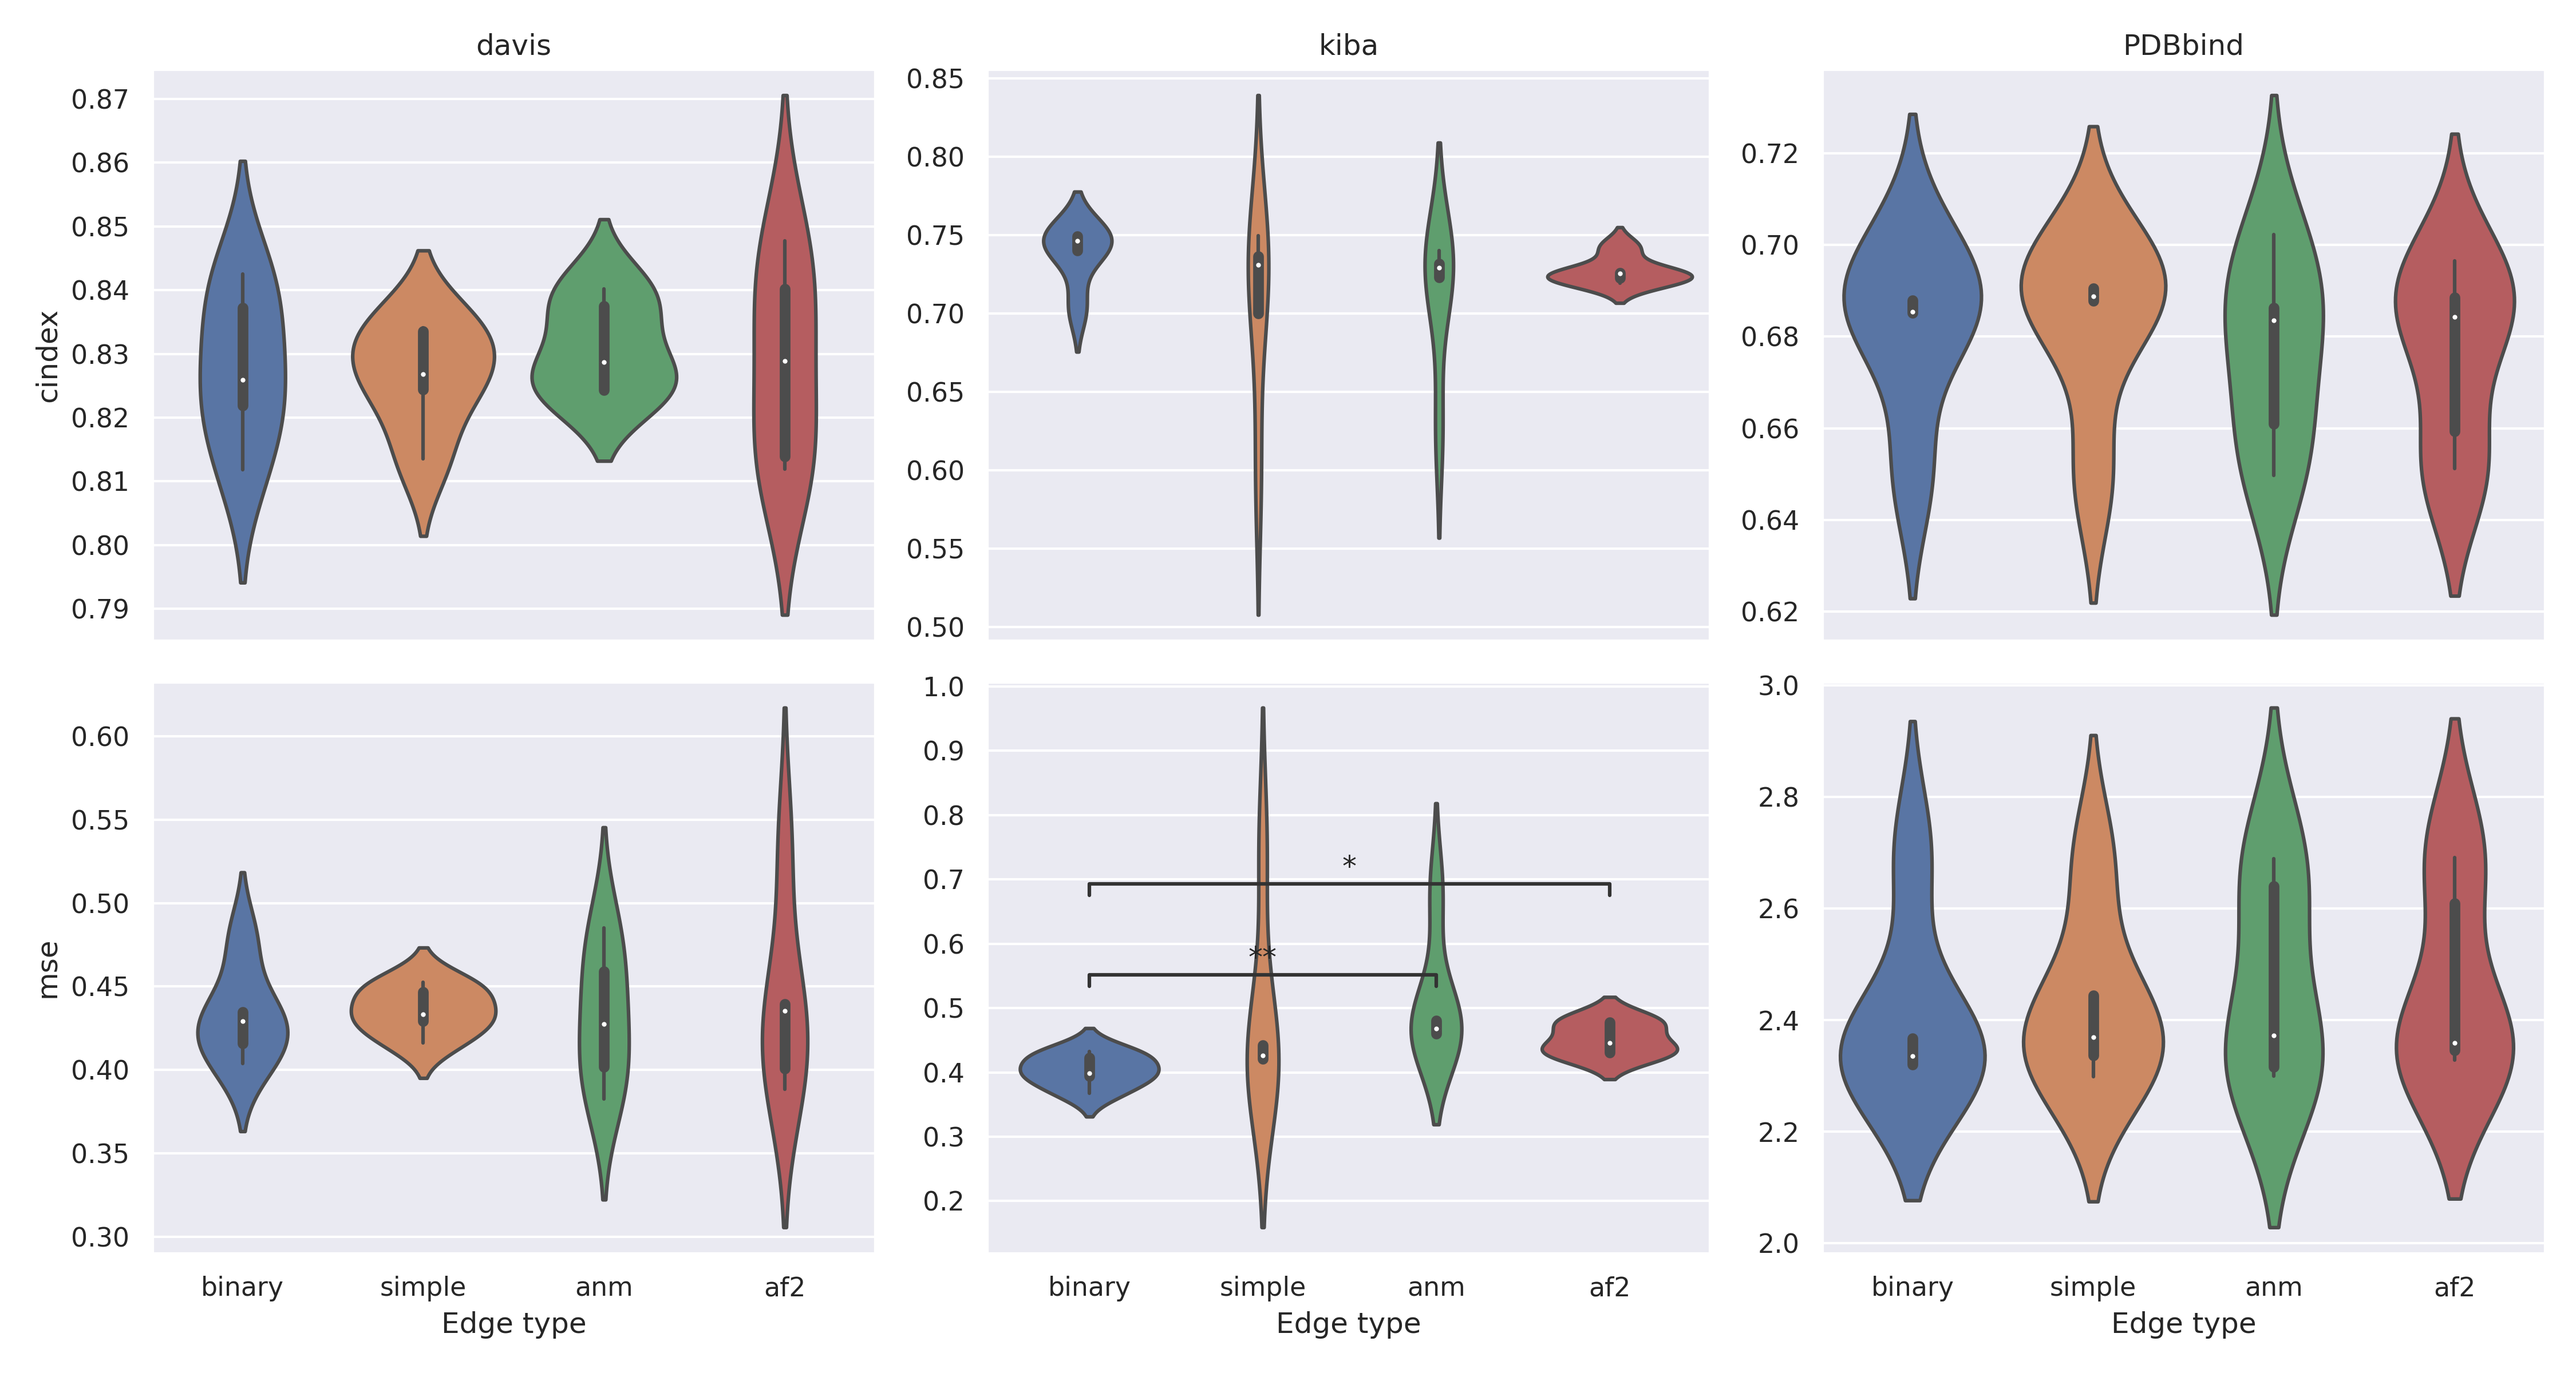
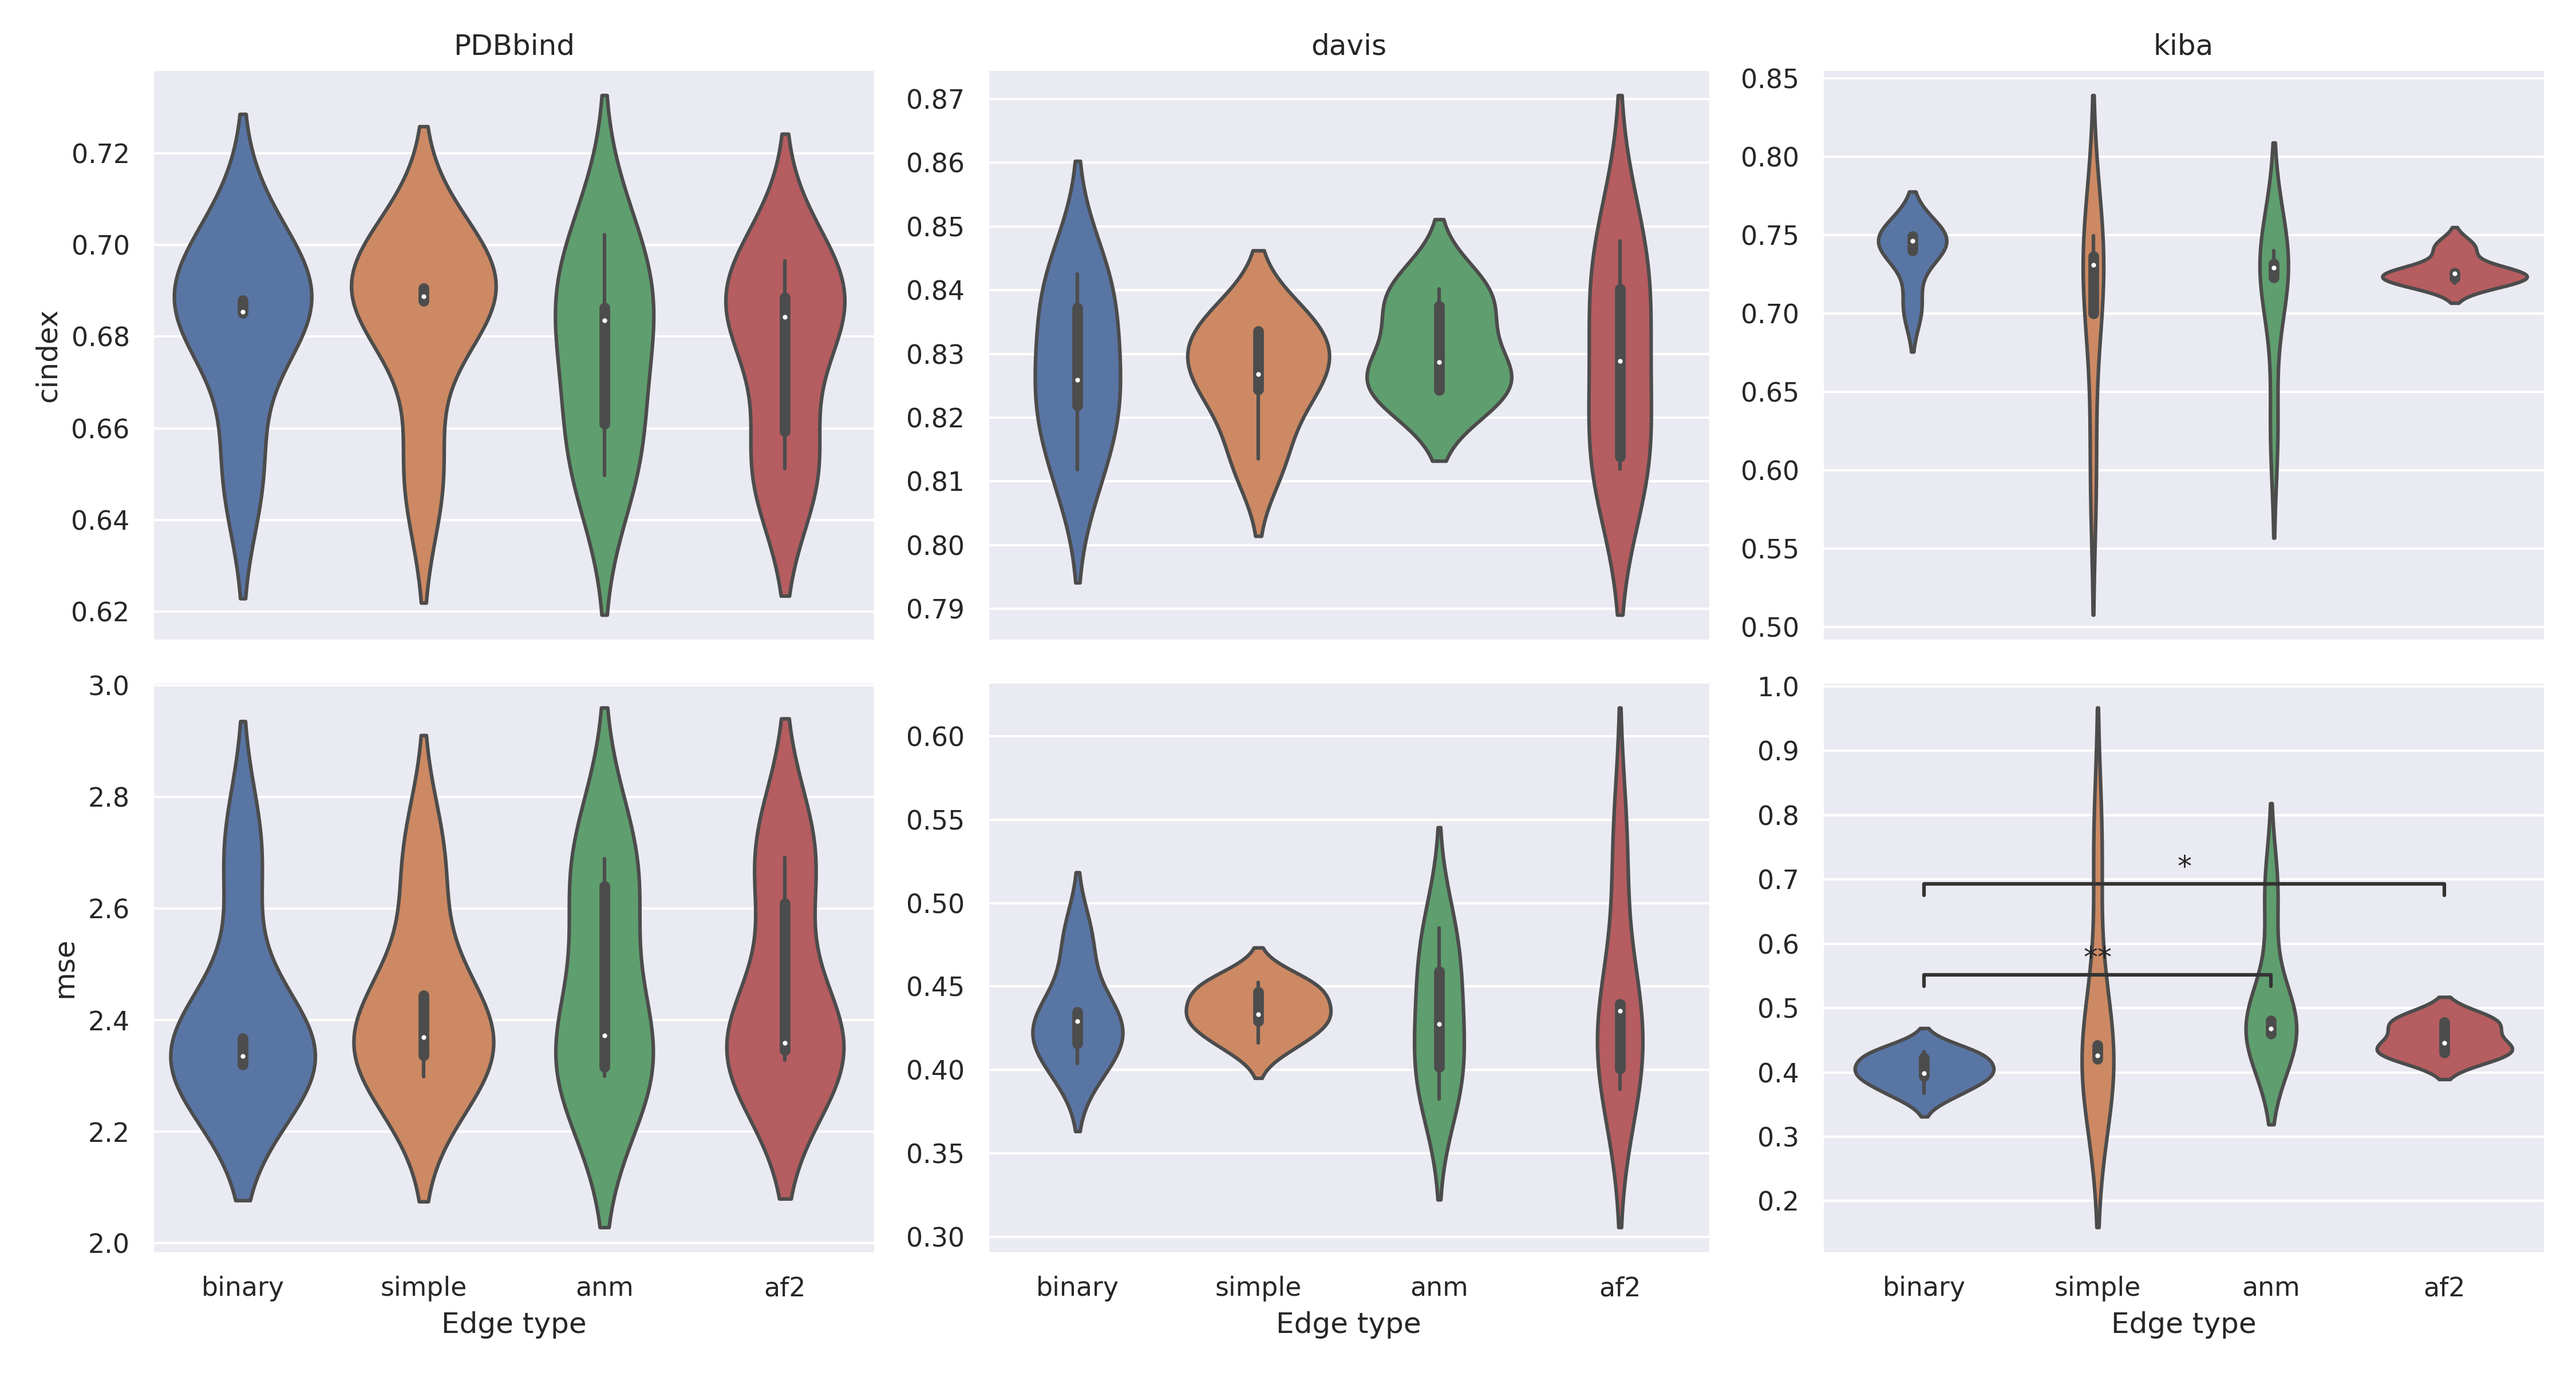
fix(fig_combined): consistent order + pearson

diff --git a/src/data_analysis/figures.py b/src/data_analysis/figures.py
@@ -288,9 +288,9 @@ def fig6_protein_appearance(datasets=['kiba', 'PDBbind'], show=False):
     
     if show: plt.show()
     
-def fig_combined(df, datasets=['davis', 'kiba', 'PDBbind'], metrics=['cindex', 'mse'], 
-                  fig_callable=fig4_pro_feat_violin, 
-                  verbose=False, show=False, **kwargs):    
+def fig_combined(df, datasets=['PDBbind','davis', 'kiba'], metrics=['cindex', 'mse'], 
+                  fig_callable=fig4_pro_feat_violin,
+                  show=False, **kwargs):    
     # Create subplots with datasets as columns and cols as rows
     fig, axes = plt.subplots(len(metrics), len(datasets), 
                              figsize=(5*len(datasets), 4*len(metrics)))
@@ -300,13 +300,18 @@ def fig_combined(df, datasets=['davis', 'kiba', 'PDBbind'], metrics=['cindex', '
             ax = axes[j, i]
 
             fig_callable(df, sel_col=metric, sel_dataset=dataset, show=False, 
-                         ax=ax, verbose=False, **kwargs)
+                         ax=ax, **kwargs)
+                        
             # Add titles only to the top row and left column
             if j == 0:
                 ax.set_title(f'{dataset}')
                 ax.set_xlabel('')
                 ax.set_xticklabels([])
-            else:
+            elif j < len(metrics)-1: # middle row
+                ax.set_xlabel('')
+                ax.set_xticklabels([])
+                ax.set_title('')
+            else: # bottom row
                 ax.set_title('')
             
             if i == 0:

diff --git a/playground.py b/playground.py
@@ -14,12 +14,12 @@ df = prepare_df(csv_p=cfg.MODEL_STATS_CSV, old_csv_p="results/model_media/old_mo
 #%% display figures
 verbose = False
 sns.set(style="darkgrid")
-fig_combined(df, fig_callable=fig4_pro_feat_violin, verbose=verbose)
-plt.savefig("results/figures/fig_combined_proViolin_CI-MSE.png", dpi=300)
+fig_combined(df, fig_callable=fig4_pro_feat_violin, metrics=['cindex', 'mse', 'pearson'])
+plt.savefig("results/figures/fig_combined_proViolin_CI-MSE-Pearson.png", dpi=300)
 
 #%%
-fig_combined(df, fig_callable=fig5_edge_feat_violin, verbose=verbose)
-plt.savefig("results/figures/fig_combined_edgeViolin_CI-MSE.png", dpi=300)
+fig_combined(df, fig_callable=fig5_edge_feat_violin, metrics=['cindex', 'mse', 'pearson'])
+plt.savefig("results/figures/fig_combined_edgeViolin_CI-MSE-Pearson.png", dpi=300)
 
 
 # %%
